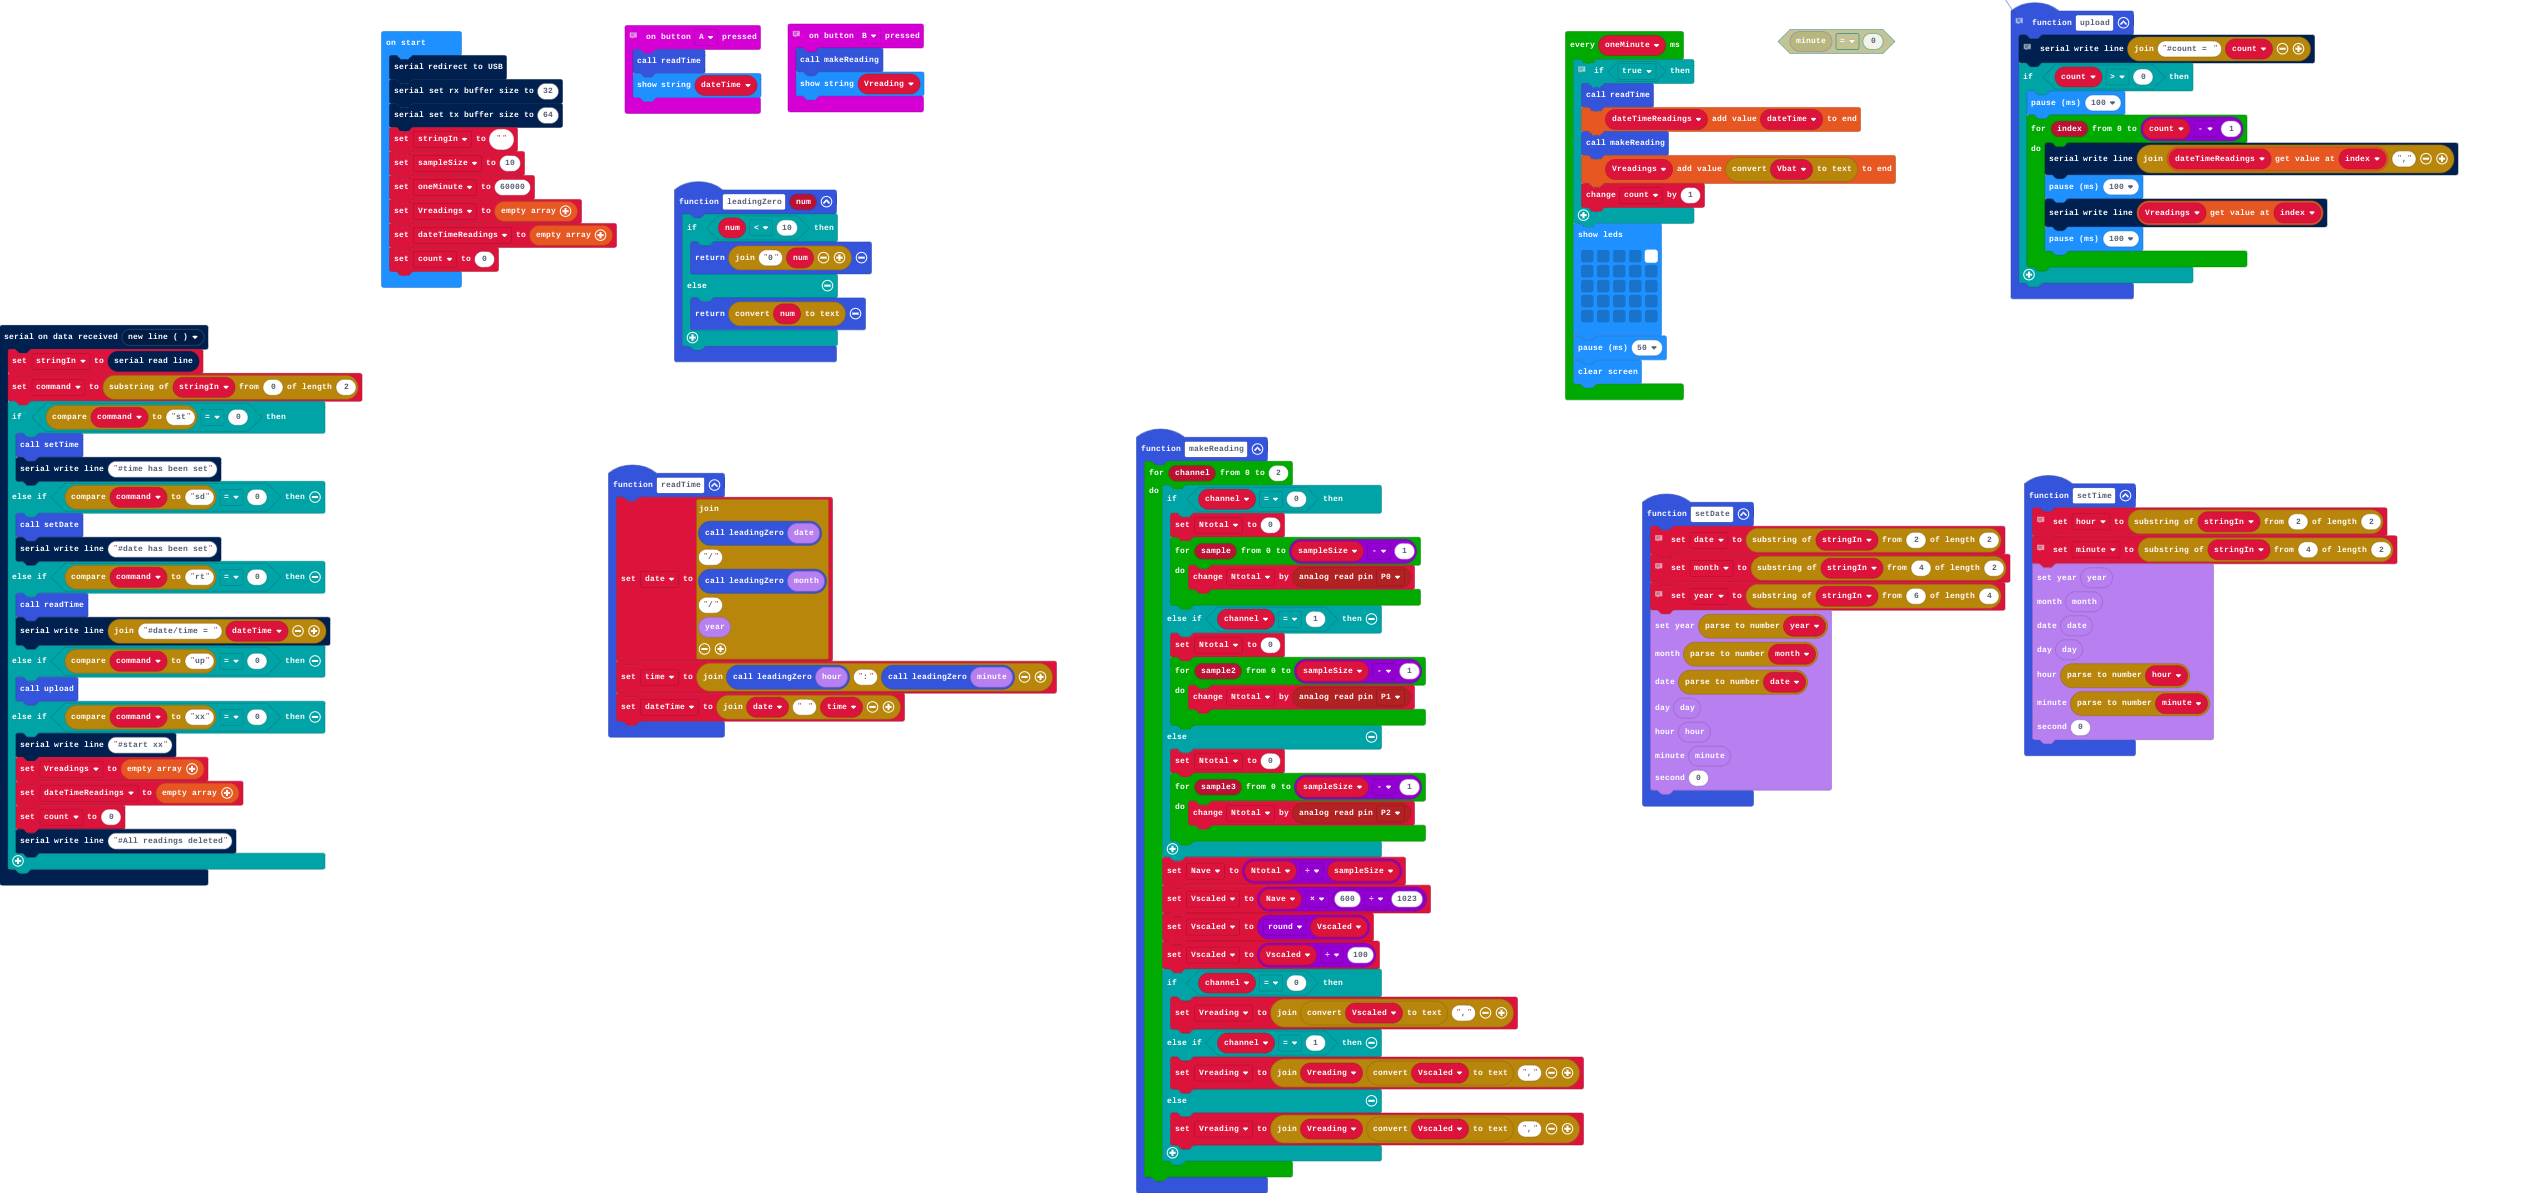
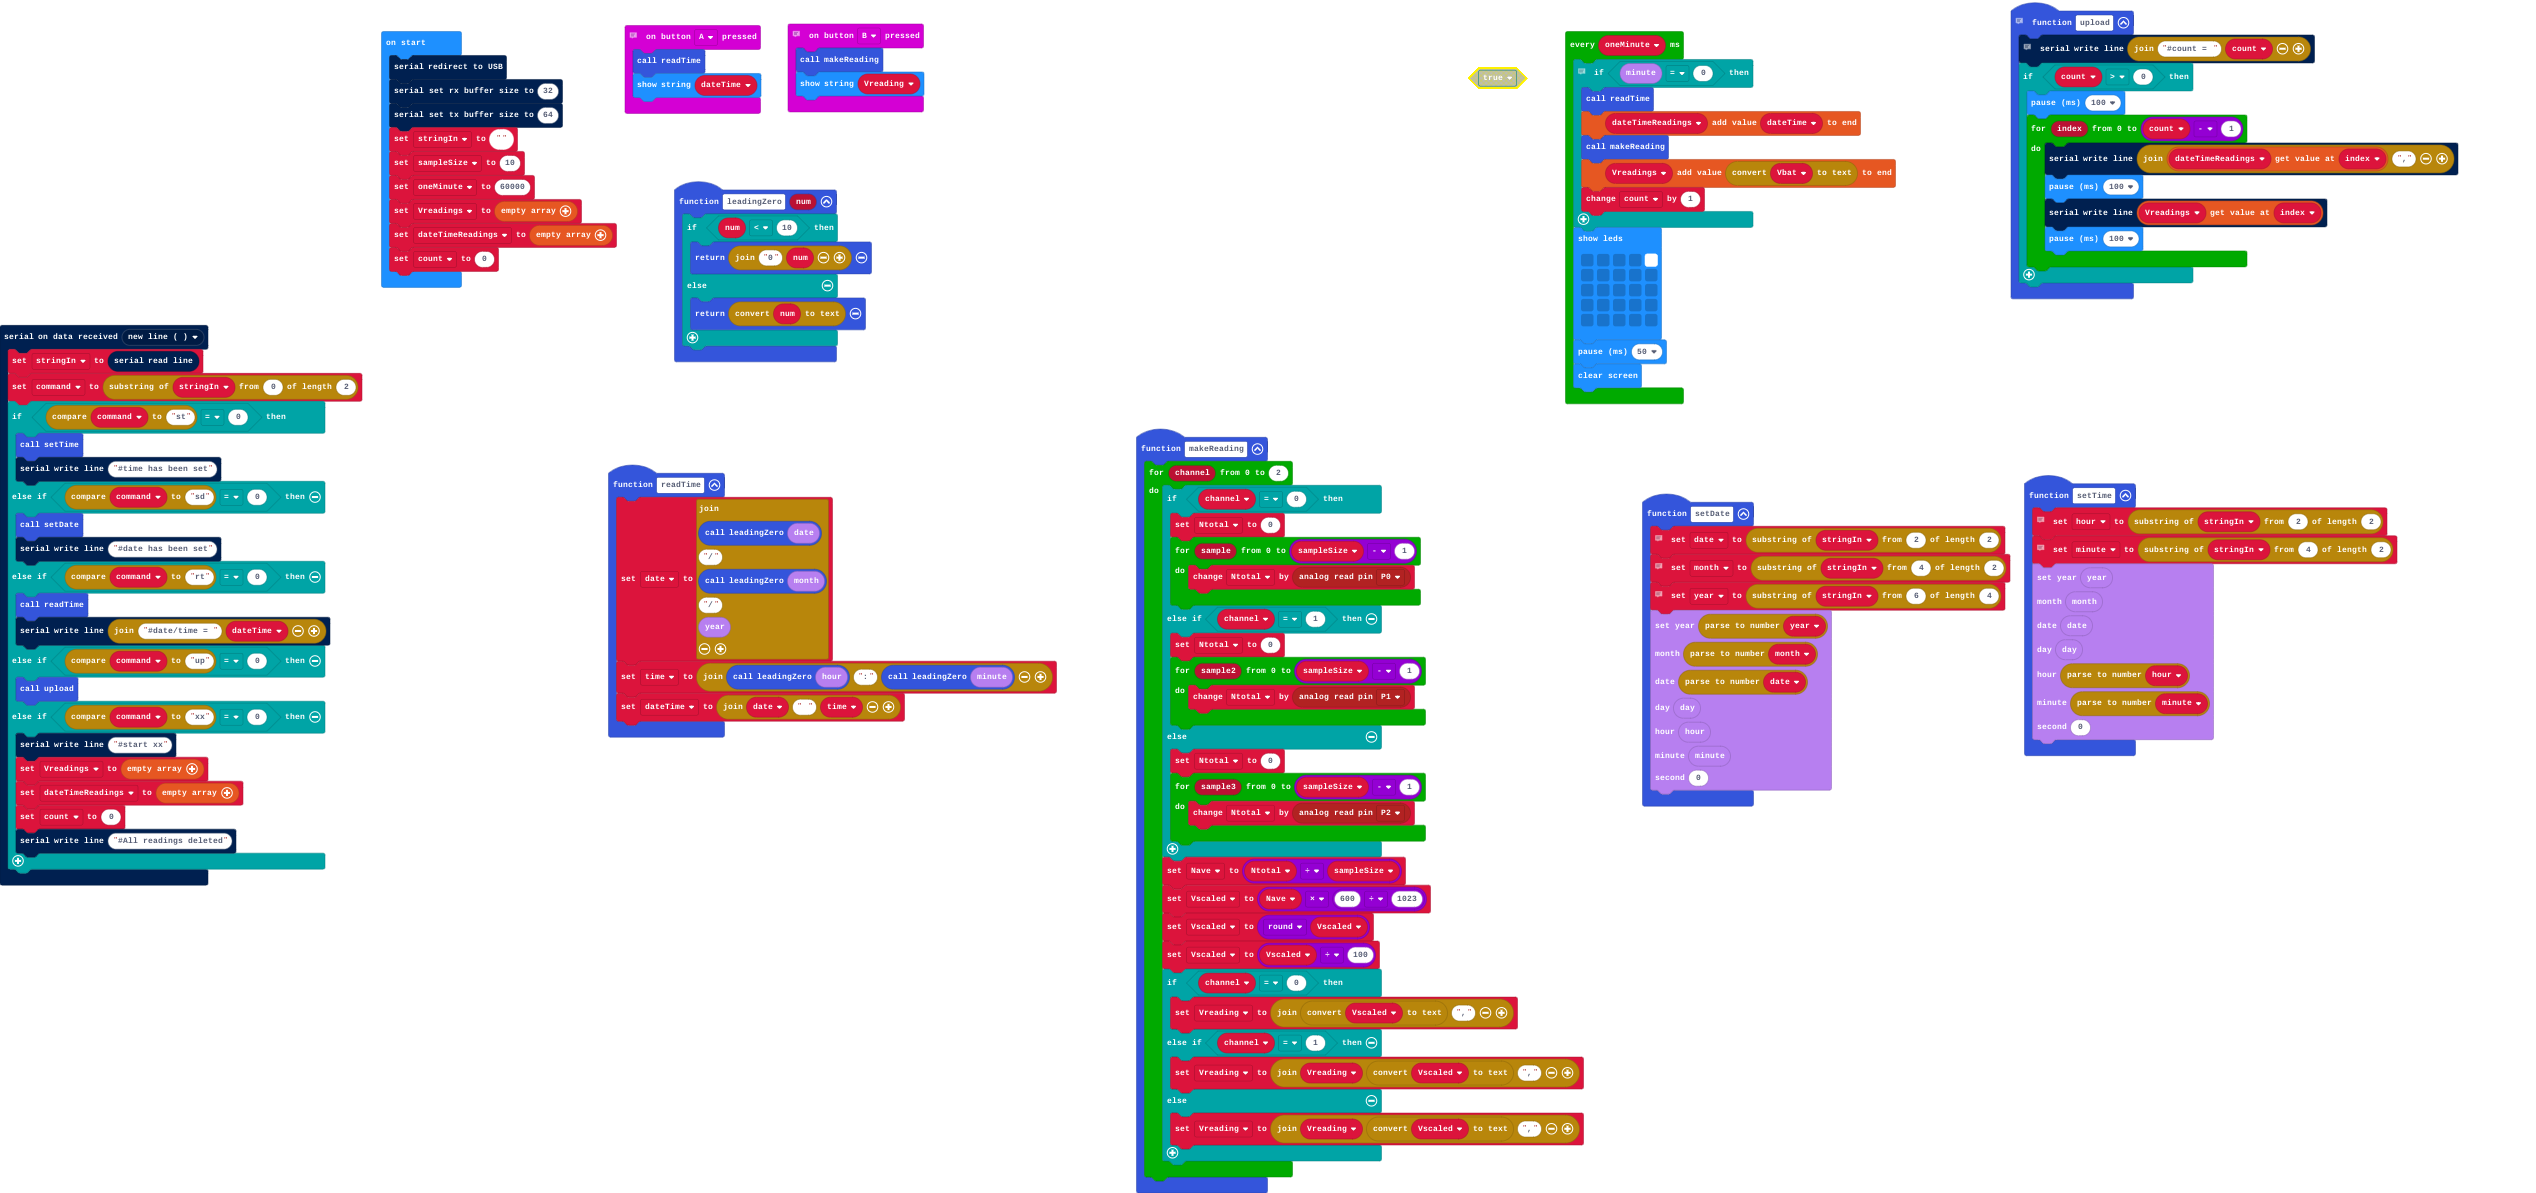
Update main.blocks, main.ts

Changed region(s): [[0.5607, 0.0, 0.7476, 0.3412]]

diff --git a/main.ts b/main.ts
@@ -147,7 +147,7 @@ dateTimeReadings = []
 count = 0
 loops.everyInterval(oneMinute, function () {
     // Take readings once per hour
-    if (true) {
+    if (DS3231.minute() == 0) {
         let Vbat = 0
         readTime()
         dateTimeReadings.push(dateTime)
